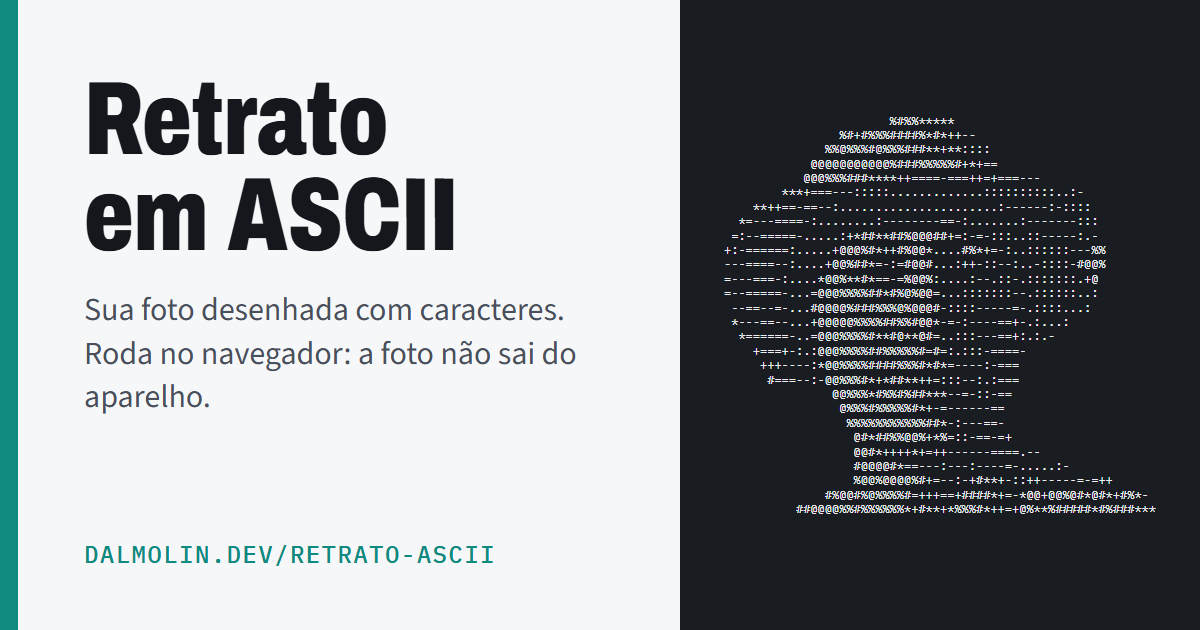
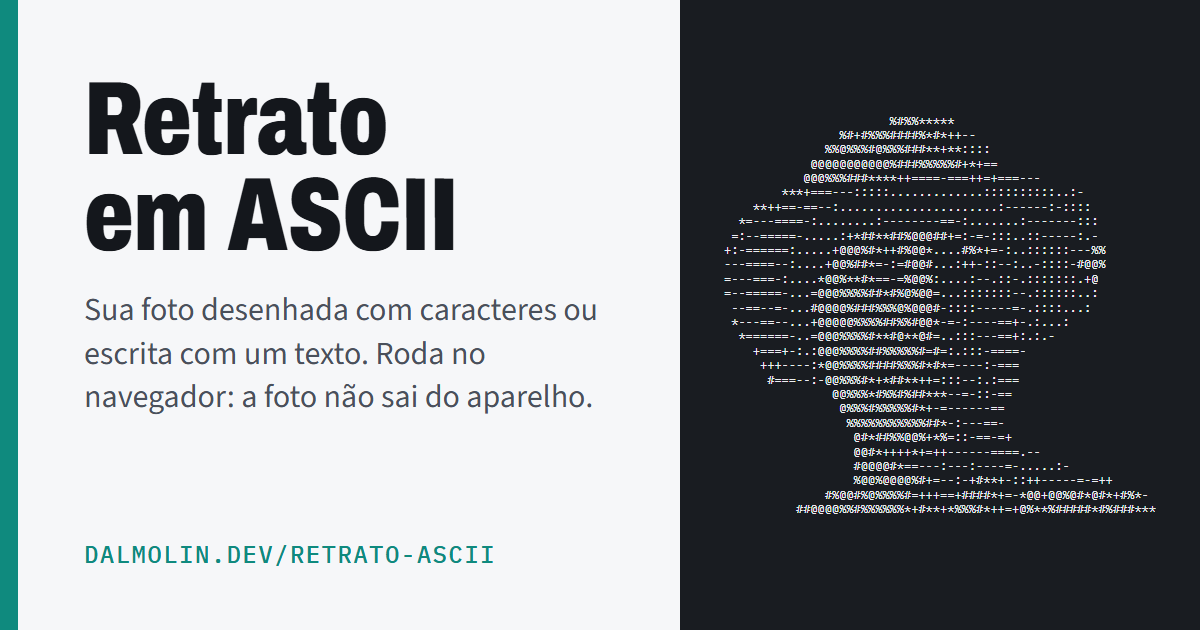
og.png: a frase de compartilhamento menciona o texto

Changed region(s): [[0.0617, 0.5429, 0.4933, 0.6635], [0.4625, 0.4825, 0.4933, 0.5127]]

diff --git a/ferramentas/og.py b/ferramentas/og.py
@@ -24,7 +24,7 @@ p {{ margin: 0; font: 400 32px/1.35 S; color: #4a505b; }}
 .a {{ background: #191c21; display: grid; place-items: center; }}
 pre {{ margin: 0; font: 400 12px/1.2 P; color: #eceef2; }}
 </style><div class="c"><div class="t"><h1>Retrato<br>em ASCII</h1>
-<p>Sua foto desenhada com caracteres. Roda no navegador: a foto não sai do aparelho.</p><span></span>
+<p>Sua foto desenhada com caracteres ou escrita com um texto. Roda no navegador: a foto não sai do aparelho.</p><span></span>
 <span class="pe">dalmolin.dev/retrato-ascii</span></div><div class="a"><pre>{arte}</pre></div></div>"""
     tmp = RAIZ / "ferramentas" / "_og.html"
     tmp.write_text(html, encoding="utf-8")
